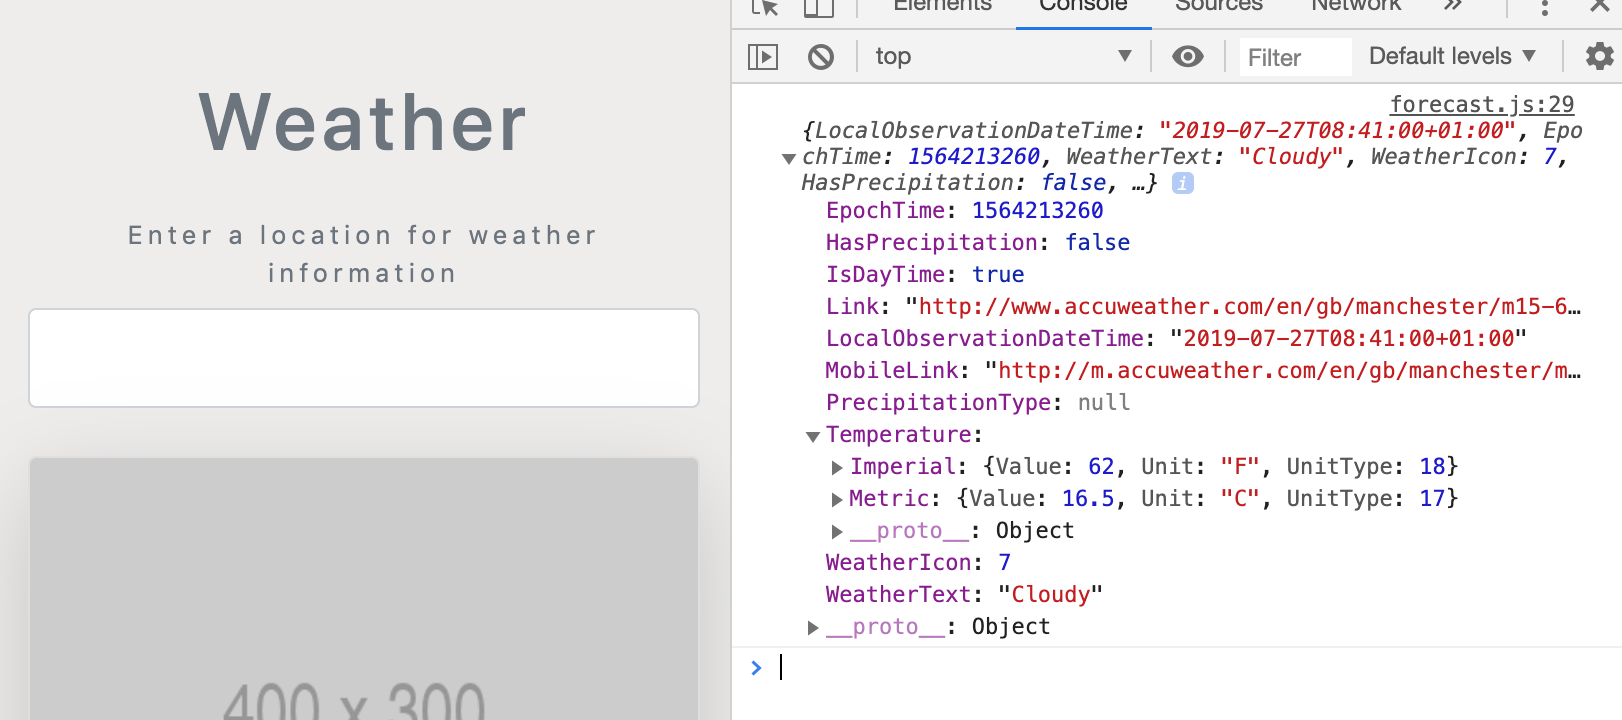
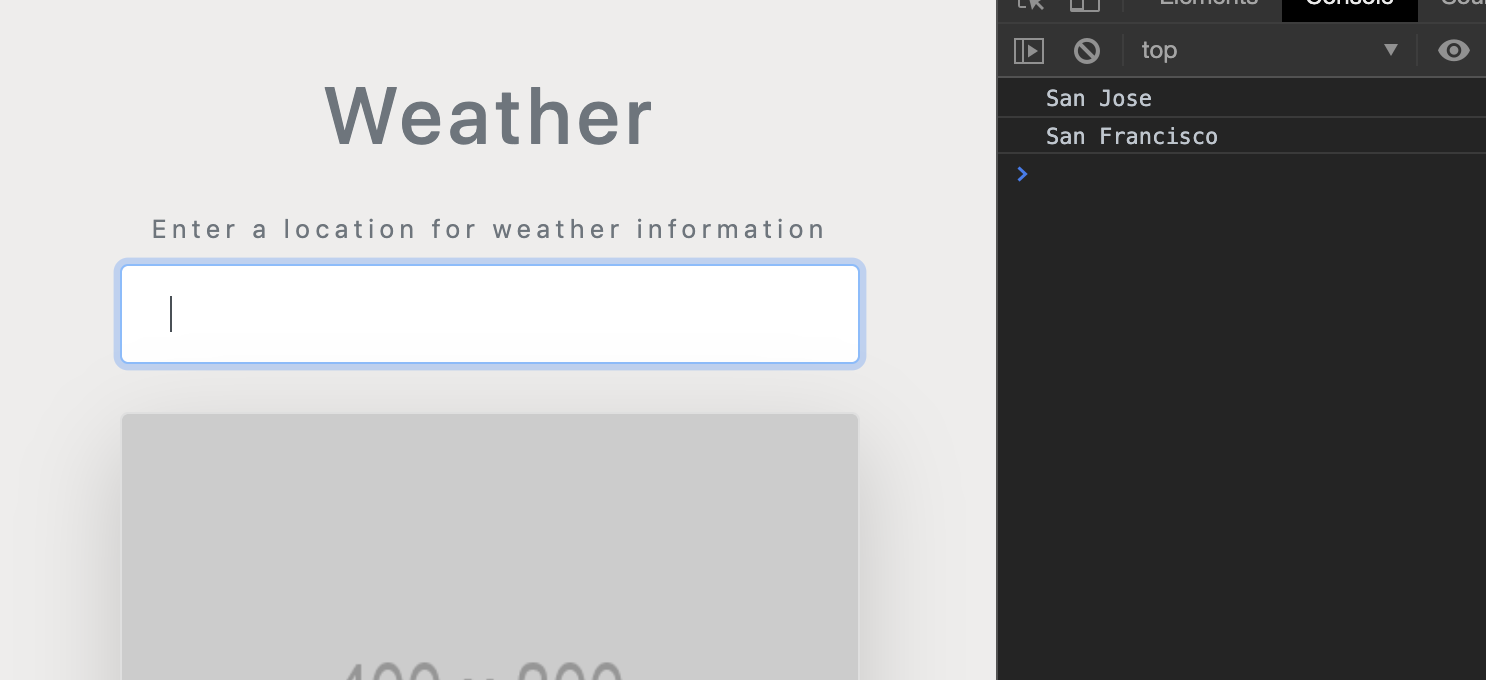
updating to UI

diff --git a/weather_app/scripts/app.js b/weather_app/scripts/app.js
@@ -1,0 +1,133 @@
+// // All kind DOM manipulation
+// const cityFrom = document.getElementsByTagName('form')[0];
+
+// const updateCity = async (city) => {
+//     const tempCityDets = await getCity(city);
+//     const tempWeather = await getWeather(tempCityDets.Key);
+
+//     return {
+//         cityDets: tempCityDets,
+//         weather: tempWeather
+//     };
+// }
+
+
+// cityFrom.addEventListener('submit', (e) => {
+//     //prevent default action
+//     e.preventDefault();
+
+//     //get city value
+//     const city = cityFrom.city.value.trim();
+//     cityFrom.reset();
+
+//     //update the ui with new city
+//     updateCity(city)
+//         .then(data => console.log(data))
+//         .catch(error => console.log(error));
+// })
+
+
+
+
+
+
+
+
+
+
+
+
+
+
+
+
+
+// //shorthand notation
+// // All kind DOM manipulation
+// const cityFrom = document.getElementsByTagName('form')[0];
+
+// const updateCity = async (city) => {
+//     const cityDetails = await getCity(city);
+//     const weather = await getWeather(cityDetails.Key);
+
+//     return { cityDetails, weather };//shorthand notation
+// }
+
+
+// cityFrom.addEventListener('submit', (e) => {
+//     //prevent default action
+//     e.preventDefault();
+
+//     //get city value
+//     const city = cityFrom.city.value.trim();
+//     cityFrom.reset();
+
+//     //update the ui with new city
+//     updateCity(city)
+//         .then(data => console.log(data))
+//         .catch(error => console.log(error));
+// })
+
+
+
+
+
+
+
+
+
+
+
+
+
+
+
+
+
+
+
+
+
+// updating the UI
+// All kind DOM manipulation
+const cityFrom = document.getElementsByTagName('form')[0];
+const card = document.querySelector('.card');
+const detatils = document.querySelector('.detail');
+
+const updateUI = (data) => {
+
+    const cityDetails = data.cityDetails;
+    const weather = data.weather;
+
+    //update deatils template
+    detatils.innerHTML = `
+    <h5 class="my-3">${cityDetails.EnglishName}</h5>
+    <div class="my-3">${weather.WeatherText}</div>
+    <div class="display-4 my-4">
+      <span>${weather.Temperature.Metric.Value}</span>
+      <span>&deg;C</span>
+    </div>
+    `;
+}
+
+const updateCity = async (city) => {
+    const cityDetails = await getCity(city);
+    const weather = await getWeather(cityDetails.Key);
+
+    return { cityDetails, weather };//shorthand notation
+}
+
+
+cityFrom.addEventListener('submit', (e) => {
+    //prevent default action
+    e.preventDefault();
+
+    //get city value
+    const city = cityFrom.city.value.trim();
+    cityFrom.reset();
+
+    //update the ui with new city
+    updateCity(city)
+        .then(data => updateUI(data))
+        .catch(error => console.log(error));
+})

diff --git a/weather_app/scripts/forecast.js b/weather_app/scripts/forecast.js
@@ -1,3 +1,57 @@
+//versoin 1
+// const key = 'gntDLaihe6vyifm5t6RMlFedA7gNsPj0';
+
+// //get weather info
+// const getWeather = async (locationKey) => {
+//     const URL = 'http://dataservice.accuweather.com/currentconditions/v1/';
+//     const query = `${locationKey}?apikey=${key}`;
+
+//     const response = await fetch(URL + query);
+//     const data = await response.json();
+
+//     return data[0];
+// };
+
+// //get city info
+// const getCity = async (city) => {
+//     const URL = 'http://dataservice.accuweather.com/locations/v1/cities/search';
+//     const query = `?apikey=${key}&q=${city}`;
+
+//     const response = await fetch(URL + query);
+//     const data = await response.json();
+//     return data[0]; //remember: we return a promise
+// };
+
+// getCity('manchester')
+//     .then(data => {
+//         return getWeather(data.Key)
+//     })
+//     .then(data => {
+//         console.log(data);
+//     })
+//     .catch(error => console.log(error))
+
+
+
+
+
+
+
+
+
+
+
+
+
+
+
+
+
+
+
+
+
+//version 2
 const key = 'gntDLaihe6vyifm5t6RMlFedA7gNsPj0';
 
 //get weather info
@@ -21,12 +75,11 @@ const getCity = async (city) => {
     return data[0]; //remember: we return a promise
 };
 
-getCity('manchester')
-    .then(data => {
-        return getWeather(data.Key)
-    })
-    .then(data => {
-        console.log(data);
-    })
-    .catch(error => console.log(error))
+
+
+
+
+
+
+
 

diff --git a/weather.md b/weather.md
@@ -1,5 +1,7 @@
  ### `Weather App`
 
+- this project using the UI design(.html) from `https://github.com/iamshaunjp/modern-javascript/tree/lesson-100`
+
  - this app is going to work for any different city 
  - I am going to be using a free weather API called 
 [AccuWeather API](https://developer.accuweather.com/)
@@ -162,13 +164,139 @@ getWeather("329260")
 
 
 
+### `All kind DOM manipulation on app.js`
+
+- first, updating `app.js`
+```js
+// All kind DOM manipulation
+const cityFrom = document.getElementsByTagName('form')[0];
+
+const updateCity = async (city) => {
+    console.log(city);
+}
+
+
+cityFrom.addEventListener('submit', (e) => {
+    //prevent default action
+    e.preventDefault();
+
+    //get city value
+    const city = cityFrom.city.value.trim();
+    cityFrom.reset();
+
+    //update the ui with new city
+    updateCity(city);
+})
+```
+![](img/15.png)
+
+
+---
+`updating app.js`
+```js
+// All kind DOM manipulation
+const cityFrom = document.getElementsByTagName('form')[0];
+
+const updateCity = async (city) => {
+    const tempCityDets = await getCity(city);
+    const tempWeather = await getWeather(tempCityDets.Key);
+
+    return {
+        cityDets: tempCityDets,
+        weather: tempWeather
+    };
+}
+
+
+cityFrom.addEventListener('submit', (e) => {
+    //prevent default action
+    e.preventDefault();
+
+    //get city value
+    const city = cityFrom.city.value.trim();
+    cityFrom.reset();
+
+    //update the ui with new city
+    updateCity(city)
+        .then(data => console.log(data))
+        .catch(error => console.log(error));
+})
+```
+![](img/16.png)
+- we can see the object have been returned: 
+```js
+{
+    cityDets: tempCityDets,
+    weather: tempWeather
+}
+```
+
+###  `Shorthand Notation(简化符号)`
+```js
+const updateCity = async (city) => {
+    const cityDetails = await getCity(city);
+    const weather = await getWeather(cityDetails.Key);
+
+    return { cityDetails, weather };//shorthand notation
+}
+```
 
 
 
 
-![](img/.png)
-![](img/.png)
-![](img/.png)
+### `Updating the UI`
+
+`app.js`
+```js
+// updating the UI
+// All kind DOM manipulation
+const cityFrom = document.getElementsByTagName('form')[0];
+const card = document.querySelector('.card');
+const detatils = document.querySelector('.detail');
+
+const updateUI = (data) => {
+
+    const cityDetails = data.cityDetails;
+    const weather = data.weather;
+
+    //update deatils template
+    detatils.innerHTML = `
+    <h5 class="my-3">${cityDetails.EnglishName}</h5>
+    <div class="my-3">${weather.WeatherText}</div>
+    <div class="display-4 my-4">
+      <span>${weather.Temperature.Metric.Value}</span>
+      <span>&deg;C</span>
+    </div>
+    `;
+}
+
+const updateCity = async (city) => {
+    const cityDetails = await getCity(city);
+    const weather = await getWeather(cityDetails.Key);
+
+    return { cityDetails, weather };//shorthand notation
+}
+
+
+cityFrom.addEventListener('submit', (e) => {
+    //prevent default action
+    e.preventDefault();
+
+    //get city value
+    const city = cityFrom.city.value.trim();
+    cityFrom.reset();
+
+    //update the ui with new city
+    updateCity(city)
+        .then(data => updateUI(data))
+        .catch(error => console.log(error));
+})
+
+```
+![](img/20.png)
+
+
+
 ![](img/.png)
 ![](img/.png)
 ![](img/.png)
